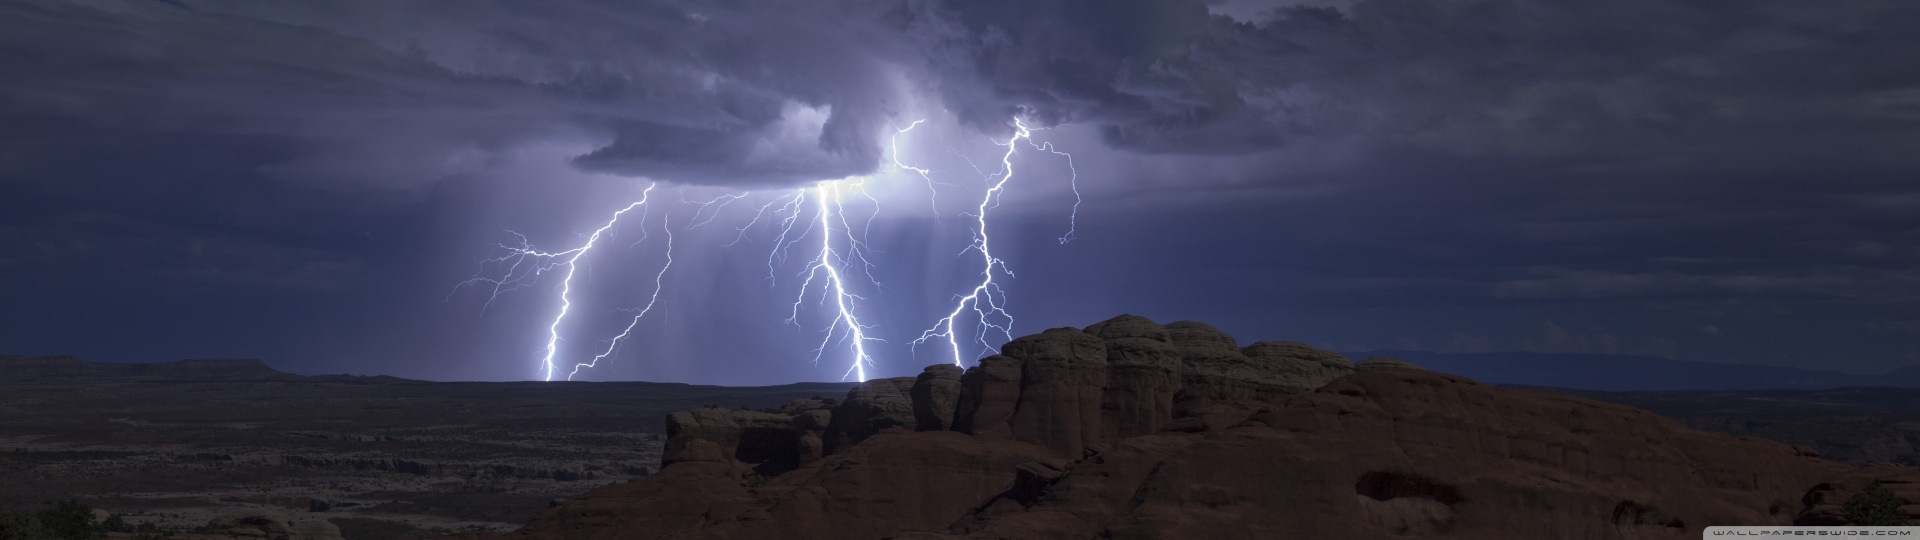
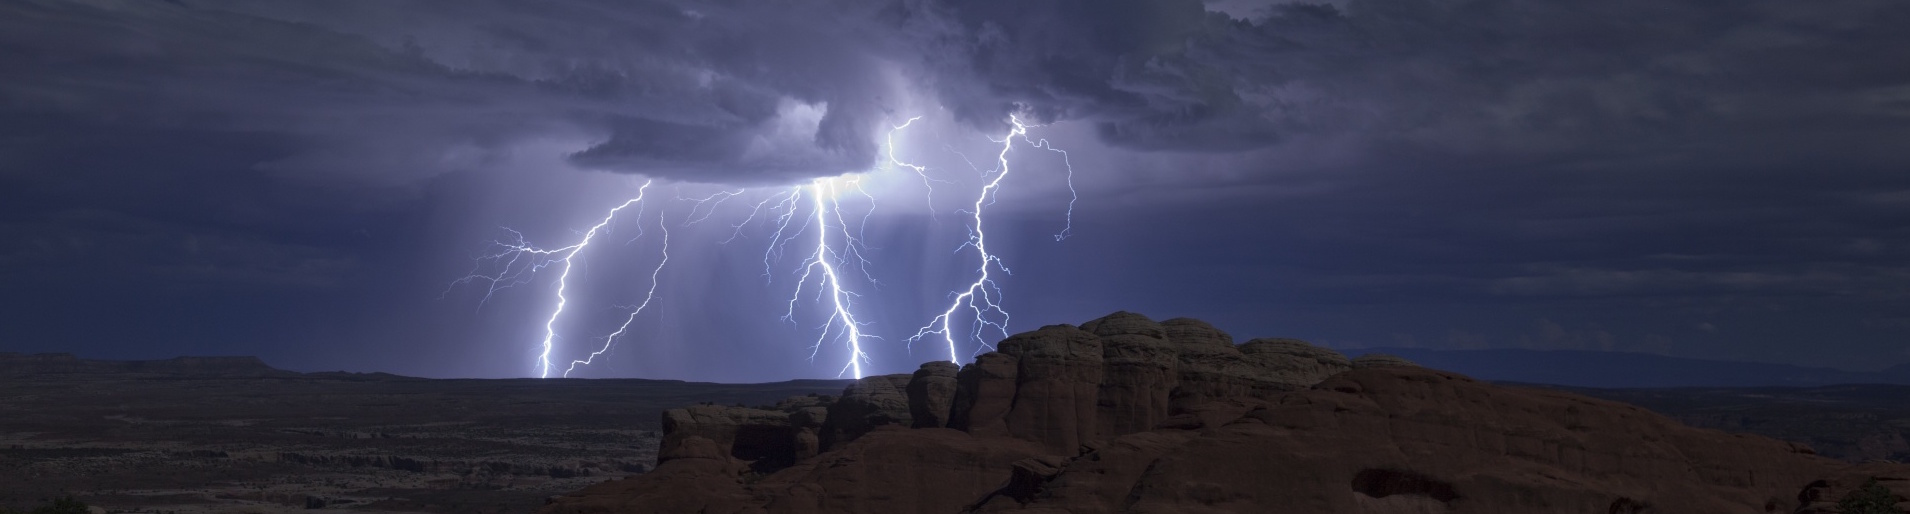
Changed header image..again

diff --git a/style.css b/style.css
@@ -46,7 +46,7 @@ body {
 }
 
 .rain {
-  background: url("./pics/lightning.jpg") top center;
+  background: url("./pics/rain2.jpg") top center;
   width: 100%;
   height: 200px;
   background-size: 100% 200px;
@@ -154,6 +154,11 @@ body {
   line-height: 0;
   background-color: rgb(179, 198, 255);
   margin: 0;
+}
+
+span {
+  line-height: 0;
+  z-index: 1;
 }
 
 /*
